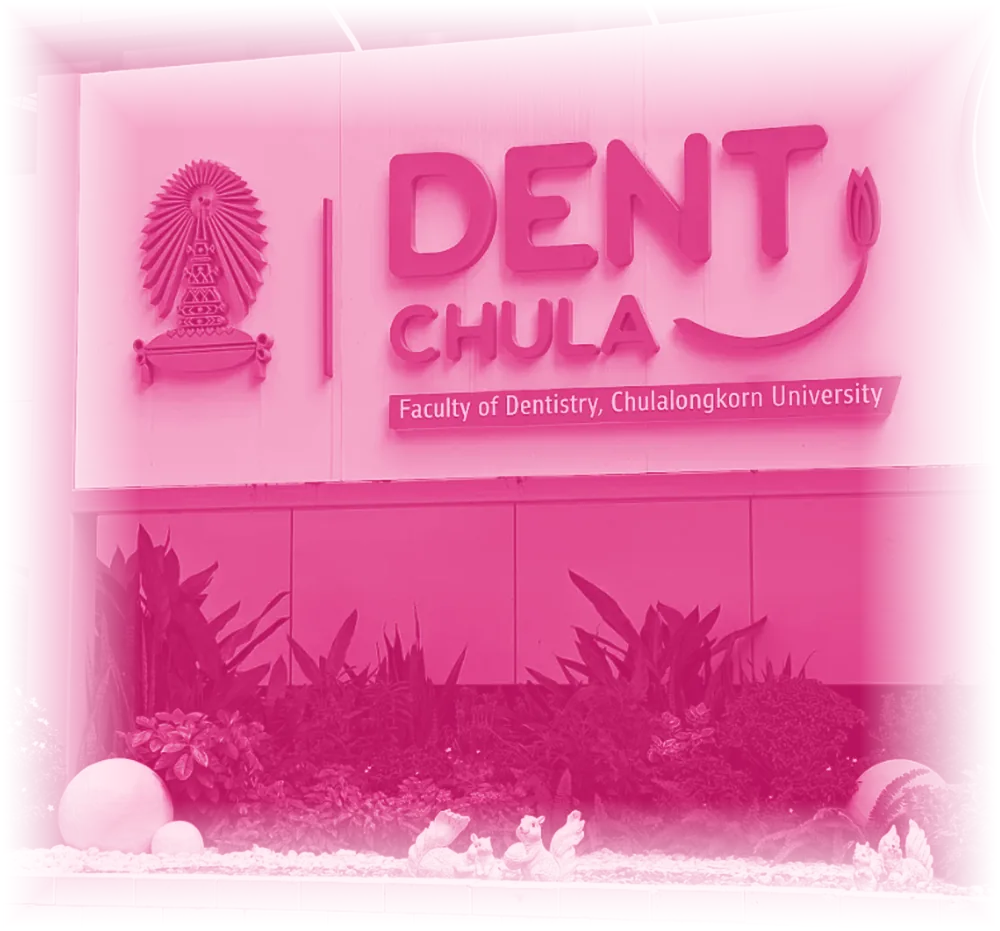
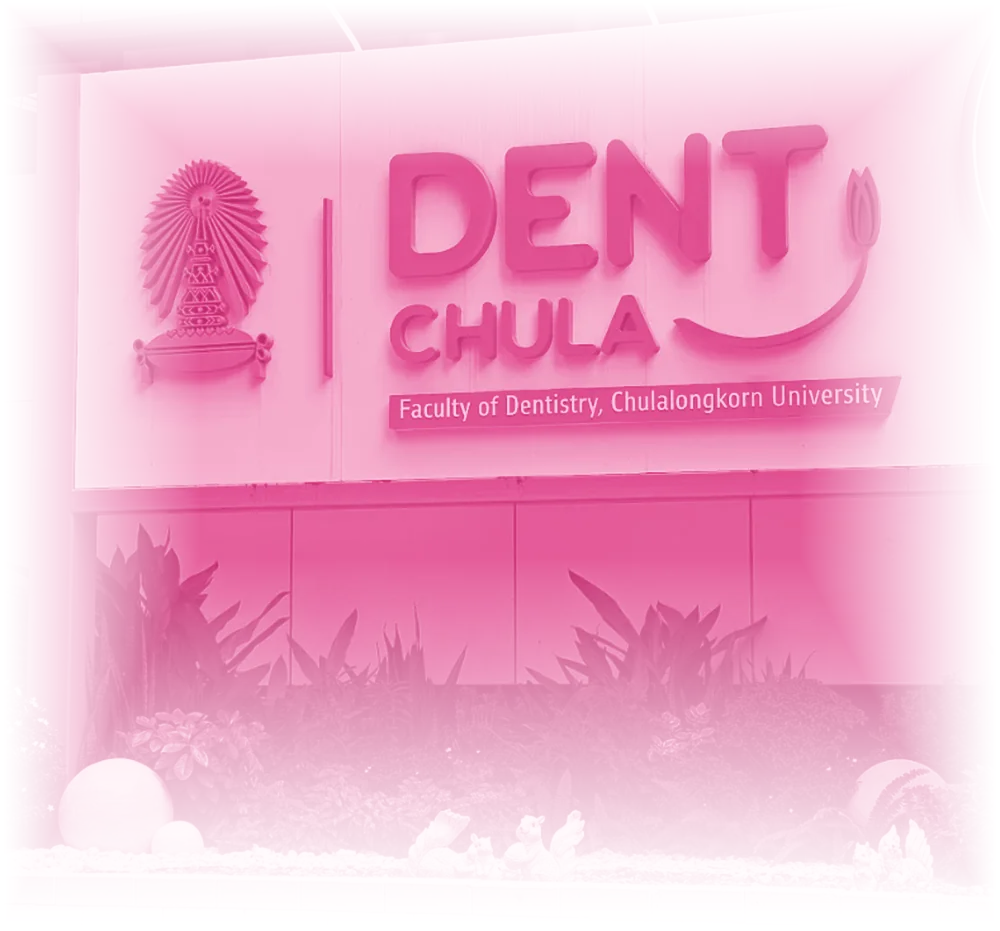
Presentation topics with live counts, deadlines 14 Dec, Naresuan not presenting, phone hero framing
Claude-Session: https://claude.ai/code/session_016LMS14PzaJgbGyYd3JYE8F

diff --git a/js/register.js b/js/register.js
@@ -20,9 +20,36 @@
   function updatePreview() {}
 
   // ---- case-presenter status (which universities already have a case, and the total) ----
+  var topics = [];
+  function countText(n) { return n === 0 ? "not chosen yet" : n === 1 ? "1 presenter" : n + " presenters"; }
+  function fallbackTopics() { return (SITE_CONFIG.TOPICS || []).map(function (n) { return { name: n, count: 0 }; }); }
+  function renderTopics(list) {
+    topics = list || [];
+    var sel = $("topic"), keep = sel.value;
+    sel.innerHTML = '<option value="">Select a topic…</option>';
+    var ul = $("topicList"); ul.innerHTML = "";
+    topics.forEach(function (t) {
+      var o = document.createElement("option"); o.value = t.name; o.textContent = t.name; sel.appendChild(o);
+      var li = document.createElement("li");
+      li.innerHTML = '<span class="case-title"></span><span class="badge"></span>';
+      li.querySelector(".case-title").textContent = t.name;
+      var b = li.querySelector(".badge"); b.textContent = countText(t.count || 0);
+      b.className = "badge " + ((t.count || 0) === 0 ? "free" : "taken");
+      li.addEventListener("click", function () { sel.value = t.name; sel.dispatchEvent(new Event("change")); });
+      ul.appendChild(li);
+    });
+    if (keep) sel.value = keep;
+    highlightTopic();
+  }
+  function highlightTopic() {
+    var v = $("topic").value;
+    $("topicList").querySelectorAll("li").forEach(function (li, i) { li.classList.toggle("selected", topics[i] && topics[i].name === v); });
+  }
+  $("topic").addEventListener("change", function () { highlightTopic(); setError("topic", ""); });
   function renderStatus(data) {
     var ul = $("caseList"); ul.innerHTML = "";
-    if (!data) { $("caseTotal").textContent = "unavailable at the moment"; return; }
+    if (!data) { $("caseTotal").textContent = "unavailable at the moment"; renderTopics(fallbackTopics()); return; }
+    renderTopics(data.topics && data.topics.length ? data.topics : fallbackTopics());
     var n = data.total || 0, all = data.universities || [];
     var presenting = all.filter(function (u) { return !u.not_presenting; }).length;
     $("caseTotal").textContent = n === 0 ? "none yet" : n + " of " + presenting + " universities";
@@ -61,6 +88,8 @@
     r.addEventListener("change", function () {
       var presenting = this.value !== "participant";
       $("titleWrap").hidden = !presenting;
+      $("titleWrap2").hidden = !presenting;
+      $("topic").required = presenting;
       updatePreview();
     });
   });
@@ -98,6 +127,11 @@
     var role = form.querySelector("input[name=role]:checked");
     $("roleError").style.display = role ? "none" : "block";
     if (!role) ok = false;
+    if (role && role.value !== "participant") {
+      var badT = !$("topic").value;
+      setError("topic", badT ? "Please choose the topic of your case." : "");
+      if (badT) ok = false;
+    }
     $("consentError").style.display = $("consent").checked ? "none" : "block";
     if (!$("consent").checked) ok = false;
     return ok;
@@ -133,6 +167,7 @@
       university_other: clean($("university_other").value),
       position: $("position").value,
       role: role,
+      topic: role === "participant" ? "" : $("topic").value,
       presentation_title: role === "participant" ? "" : $("presentation_title").value.trim(),
       dietary: clean($("dietary").value),
       consent: $("consent").checked,
@@ -157,6 +192,8 @@
         var ct = data.case_title || "";
         $("okCase").textContent = ct || "to be added on your presenter page";
         $("okCase").previousElementSibling.hidden = $("okCase").hidden = data.role === "participant";
+        $("okTopic").textContent = data.topic || "";
+        $("okTopic").previousElementSibling.hidden = $("okTopic").hidden = data.role === "participant";
         if (data.presenter_url) { $("presenterBox").hidden = false; $("presenterLink").href = data.presenter_url; $("presenterLink").textContent = data.presenter_url; }
         $("okEmail").textContent = payload.email;
         $("formWrap").hidden = true;

diff --git a/call.html b/call.html
@@ -9,7 +9,7 @@
 <link rel="preconnect" href="https://fonts.googleapis.com">
 <link href="https://fonts.googleapis.com/css2?family=Plus+Jakarta+Sans:wght@500;600;700;800&family=Manrope:wght@400;500;600;700&family=Cormorant+Garamond:ital,wght@0,600;1,500&display=swap" rel="stylesheet">
 <script>if(!matchMedia("(prefers-reduced-motion: reduce)").matches&&"IntersectionObserver" in window){document.documentElement.classList.add("js");setTimeout(function(){document.documentElement.classList.remove("js")},3000)}</script>
-<link rel="stylesheet" href="css/style.css?v=20260921b">
+<link rel="stylesheet" href="css/style.css?v=20260922c">
 </head>
 <body>
 <header class="site-header">
@@ -41,12 +41,26 @@
       <p>Presenters receive a Certificate of Presentation naming the case title, in addition to the Certificate of Participation. Both are emailed after the symposium.</p></div>
   </div>
 
+  <h2 style="margin-top:2.5rem">Presentation topics</h2>
+  <p>Each case is registered under one of the following topics. The registration form shows how many presenters have already chosen each topic.</p>
+  <ul class="topics">
+    <li>Skeletal Class II (non-surgical)</li>
+    <li>Skeletal Class III (non-surgical)</li>
+    <li>Orthognathic surgery</li>
+    <li>Clear aligner treatment</li>
+    <li>Growth modification / early treatment</li>
+    <li>Interdisciplinary treatment</li>
+    <li>Syndromic cases</li>
+    <li>TMD / TMJ-related orthodontic treatment</li>
+    <li>Asymmetry (non-surgical)</li>
+  </ul>
+
   <h2 style="margin-top:2.5rem">How to register a case</h2>
   <ol>
-    <li>The presenting resident <a href="register.html">registers</a> and chooses <strong>Case presenter</strong>. The form shows which universities have already registered a case and how many cases there are so far. The case title can be given at registration or added later.</li>
+    <li>The presenting resident <a href="register.html">registers</a>, chooses <strong>Case presenter</strong> and picks the topic of the case. The form shows which universities have already registered a case and how many presenters have chosen each topic. The case title can be given at registration or added later.</li>
     <li>Only one case presenter per university can be registered; a second registration from the same university is refused automatically.</li>
     <li>The case title is printed on the certificate and in the programme; presenters can edit it on their private presenter page until the deadline.</li>
-    <li>Deadline for case titles: <strong><span data-config="CASE_TITLE_DEADLINE"></span></strong>. Supervisors and co-presenters register separately as participants.</li>
+    <li>Deadline for registration, case titles and slide upload: <strong><span data-config="CASE_TITLE_DEADLINE"></span></strong>. Supervisors and co-presenters register separately as participants.</li>
   </ol>
   <p>No abstract submission is required. Patient information must be anonymised in all slides.</p>
   <p><a class="btn navy" href="register.html">Register as case presenter</a></p>
@@ -64,8 +78,8 @@
     </div>
   </div>
 </footer>
-<script src="js/config.js?v=20260921b"></script>
-<script src="js/main.js?v=20260921b"></script>
+<script src="js/config.js?v=20260922c"></script>
+<script src="js/main.js?v=20260922c"></script>
 
 </body>
 </html>

diff --git a/register.html b/register.html
@@ -9,7 +9,7 @@
 <link rel="preconnect" href="https://fonts.googleapis.com">
 <link href="https://fonts.googleapis.com/css2?family=Plus+Jakarta+Sans:wght@500;600;700;800&family=Manrope:wght@400;500;600;700&family=Cormorant+Garamond:ital,wght@0,600;1,500&display=swap" rel="stylesheet">
 <script>if(!matchMedia("(prefers-reduced-motion: reduce)").matches&&"IntersectionObserver" in window){document.documentElement.classList.add("js");setTimeout(function(){document.documentElement.classList.remove("js")},3000)}</script>
-<link rel="stylesheet" href="css/style.css?v=20260921b">
+<link rel="stylesheet" href="css/style.css?v=20260922c">
 </head>
 <body>
 <header class="site-header">
@@ -45,6 +45,7 @@
     <dl>
       <dt>Registration ID</dt><dd id="okId"></dd>
       <dt>Role</dt><dd id="okRole"></dd>
+      <dt>Topic</dt><dd id="okTopic"></dd>
       <dt>Case title</dt><dd id="okCase"></dd>
       <dt>Name on certificate</dt><dd id="okName"></dd>
       <dt>Affiliation on certificate</dt><dd id="okUni"></dd>
@@ -148,6 +149,13 @@
         </div>
         <span id="roleError" class="field-error" style="display:none">Please choose how you will take part.</span>
         <div class="field" id="titleWrap" hidden style="margin-top:1rem">
+          <label for="topic">Topic of your case <span class="req">*</span></label>
+          <select id="topic" name="topic"><option value="">Select a topic…</option></select>
+          <span class="hint">The badge shows how many presenters have already chosen each topic. You may still choose a popular topic; a less popular one makes for a more varied afternoon.</span>
+          <ul id="topicList" class="case-list" aria-live="polite"></ul>
+          <span class="field-error"></span>
+        </div>
+        <div class="field" hidden id="titleWrap2" style="margin-top:1rem">
           <label for="presentation_title">Case title <span class="hint">(optional now, can be added or changed later on your presenter page)</span></label>
           <input type="text" id="presentation_title" name="presentation_title" maxlength="300" placeholder="e.g. Skeletal Class III camouflage in an adult patient" autocomplete="off">
           <span class="field-error"></span>
@@ -188,8 +196,8 @@
     </div>
   </div>
 </footer>
-<script src="js/config.js?v=20260921b"></script>
-<script src="js/main.js?v=20260921b"></script>
-<script src="js/register.js?v=20260921b"></script>
+<script src="js/config.js?v=20260922c"></script>
+<script src="js/main.js?v=20260922c"></script>
+<script src="js/register.js?v=20260922c"></script>
 </body>
 </html>

diff --git a/css/style.css b/css/style.css
@@ -234,6 +234,8 @@ input.invalid, select.invalid { border-color: var(--error); }
 .case-list li { display: flex; justify-content: space-between; align-items: center; gap: .8rem; padding: .6rem .8rem; border: 1px solid var(--line); border-radius: 10px; background: #fff; cursor: pointer; font-size: .92rem; transition: border-color .2s, background .2s; }
 .case-list li:hover { border-color: var(--pink); }
 .case-list.status li { cursor: default; }
+ul.topics { list-style: none; padding: 0; margin: .8rem 0 0; display: flex; flex-wrap: wrap; gap: .5rem; }
+ul.topics li { background: #fff; color: var(--navy); border-radius: 999px; padding: .45rem .9rem; font-weight: 600; font-size: .92rem; box-shadow: 0 6px 16px rgba(0,0,0,.18); }
 .case-list.status li.na .case-title { color: var(--muted); }
 .case-list.status li:hover { border-color: var(--line); }
 .case-list li.selected { border-color: var(--navy); background: var(--blush); }
@@ -347,9 +349,9 @@ html:not([data-theme]) a { color: var(--pink-soft); }
 html:not([data-theme]) :is(.card, form.reg, table, .success) { color: var(--ink); }
 html:not([data-theme]) :is(.card, form.reg, table, .success) a { color: var(--pink); }
 html:not([data-theme]) .site-header { border-bottom: 0; }
-html:not([data-theme]) .hero { background: linear-gradient(120deg, rgba(201,23,94,.78) 0%, rgba(220,47,122,.62) 55%, rgba(230,84,154,.55) 100%), url(../assets/hero-sign.webp) calc(50% + 450px) 100% / auto 88% no-repeat #d8286f; padding-bottom: clamp(5rem, 12vw, 8.5rem); }
+html:not([data-theme]) .hero { background: linear-gradient(120deg, rgba(201,23,94,.78) 0%, rgba(220,47,122,.62) 55%, rgba(230,84,154,.55) 100%), url(../assets/hero-sign.webp?v=2) calc(50% + 450px) 100% / auto 88% no-repeat #d8286f; padding-bottom: clamp(5rem, 12vw, 8.5rem); }
 @media (min-width: 901px) { html:not([data-theme]) .hero-art { display: none; } }   /* the sign panel takes the arch's place on wide screens */
-@media (max-width: 900px) { html:not([data-theme]) .hero { background-size: auto 44%; background-position: center 100%; } }
+@media (max-width: 900px) { html:not([data-theme]) .hero { background-size: auto 46%; background-position: right -12% top 6%; } html:not([data-theme]) .hero-art { display: none; } }   /* phones/tablets: sign panel top-right behind the title, arch off to keep it calm */
 html:not([data-theme]) .hero-art { opacity: .1; }
 .hero { border-bottom: 2px solid var(--navy); }   /* hides the sub-pixel seam under the wave */
 html[data-theme="light"] .hero { border-bottom-color: var(--bg); }

diff --git a/index.html b/index.html
@@ -9,7 +9,7 @@
 <link rel="preconnect" href="https://fonts.googleapis.com">
 <link href="https://fonts.googleapis.com/css2?family=Plus+Jakarta+Sans:wght@500;600;700;800&family=Manrope:wght@400;500;600;700&family=Cormorant+Garamond:ital,wght@0,600;1,500&display=swap" rel="stylesheet">
 <script>if(!matchMedia("(prefers-reduced-motion: reduce)").matches&&"IntersectionObserver" in window){document.documentElement.classList.add("js");setTimeout(function(){document.documentElement.classList.remove("js")},3000)}</script>
-<link rel="stylesheet" href="css/style.css?v=20260921b">
+<link rel="stylesheet" href="css/style.css?v=20260922c">
 </head>
 <body>
 <header class="site-header">
@@ -166,8 +166,8 @@
     <div class="table-wrap">
     <table class="dates">
       <tr><th>Registration opens</th><td>1 October 2026</td></tr>
-      <tr><th>Deadline for case titles (presenters)</th><td><span data-config="CASE_TITLE_DEADLINE"></span></td></tr>
       <tr><th>Registration deadline</th><td><span data-config="REGISTRATION_DEADLINE"></span></td></tr>
+      <tr><th>Deadline for case titles and slide upload (presenters)</th><td><span data-config="CASE_TITLE_DEADLINE"></span></td></tr>
       <tr><th>Symposium day</th><td><span data-config="EVENT_DATE"></span></td></tr>
     </table>
     </div>
@@ -188,8 +188,8 @@
     </div>
   </div>
 </footer>
-<script src="js/config.js?v=20260921b"></script>
-<script src="js/main.js?v=20260921b"></script>
+<script src="js/config.js?v=20260922c"></script>
+<script src="js/main.js?v=20260922c"></script>
 
 </body>
 </html>

diff --git a/presenter.html b/presenter.html
@@ -9,7 +9,7 @@
 <link rel="preconnect" href="https://fonts.googleapis.com">
 <link href="https://fonts.googleapis.com/css2?family=Plus+Jakarta+Sans:wght@500;600;700;800&family=Manrope:wght@400;500;600;700&family=Cormorant+Garamond:ital,wght@0,600;1,500&display=swap" rel="stylesheet">
 <script>if(!matchMedia("(prefers-reduced-motion: reduce)").matches&&"IntersectionObserver" in window){document.documentElement.classList.add("js");setTimeout(function(){document.documentElement.classList.remove("js")},3000)}</script>
-<link rel="stylesheet" href="css/style.css?v=20260921b">
+<link rel="stylesheet" href="css/style.css?v=20260922c">
 </head>
 <body>
 <header class="site-header">
@@ -54,6 +54,7 @@
           <dt>Presenter</dt><dd id="pName"></dd>
           <dt>University</dt><dd id="pUni"></dd>
           <dt>Registration ID</dt><dd id="pId"></dd>
+          <dt>Topic</dt><dd id="pTopic"></dd>
           <dt>Registered title</dt><dd id="pCase"></dd>
         </dl>
         <div class="field">
@@ -119,8 +120,8 @@
     </div>
   </div>
 </footer>
-<script src="js/config.js?v=20260921b"></script>
-<script src="js/main.js?v=20260921b"></script>
-<script src="js/presenter.js?v=20260921b"></script>
+<script src="js/config.js?v=20260922c"></script>
+<script src="js/main.js?v=20260922c"></script>
+<script src="js/presenter.js?v=20260922c"></script>
 </body>
 </html>

diff --git a/js/config.js b/js/config.js
@@ -5,9 +5,12 @@ const SITE_CONFIG = {
   // Paste the Apps Script Web App URL here (ends with /exec). See README.md.
   SCRIPT_URL: "https://script.google.com/macros/s/AKfycbxG7XtJMnSAxWiX2EfP3FXgvF10LuyyvUDhdgw_oYJ9qijz0nhQqTu1mRZNUWD6pGNg/exec",
   REGISTRATION_OPEN: true,
-  REGISTRATION_DEADLINE: "7 December 2026",
+  REGISTRATION_DEADLINE: "14 December 2026",
   EVENT_DATE: "21 December 2026",
   EVENT_DATE_ISO: "2026-12-21T08:30:00+07:00",   // used by the countdown
-  CASE_TITLE_DEADLINE: "20 November 2026",
+  CASE_TITLE_DEADLINE: "14 December 2026",
+  // Presentation topics (fallback if the backend cannot be reached; the live list with counts comes from the backend).
+  TOPICS: ["Skeletal Class II (non-surgical)", "Skeletal Class III (non-surgical)", "Orthognathic surgery", "Clear aligner treatment",
+           "Growth modification / early treatment", "Interdisciplinary treatment", "Syndromic cases", "TMD / TMJ-related orthodontic treatment", "Asymmetry (non-surgical)"],
   CONTACT_EMAIL: "",   // departmental address, e.g. the OrthoCU office. Leave "" to hide contact lines.
 };

diff --git a/venue.html b/venue.html
@@ -9,7 +9,7 @@
 <link rel="preconnect" href="https://fonts.googleapis.com">
 <link href="https://fonts.googleapis.com/css2?family=Plus+Jakarta+Sans:wght@500;600;700;800&family=Manrope:wght@400;500;600;700&family=Cormorant+Garamond:ital,wght@0,600;1,500&display=swap" rel="stylesheet">
 <script>if(!matchMedia("(prefers-reduced-motion: reduce)").matches&&"IntersectionObserver" in window){document.documentElement.classList.add("js");setTimeout(function(){document.documentElement.classList.remove("js")},3000)}</script>
-<link rel="stylesheet" href="css/style.css?v=20260921b">
+<link rel="stylesheet" href="css/style.css?v=20260922c">
 </head>
 <body>
 <header class="site-header">
@@ -101,8 +101,8 @@
     </div>
   </div>
 </footer>
-<script src="js/config.js?v=20260921b"></script>
-<script src="js/main.js?v=20260921b"></script>
+<script src="js/config.js?v=20260922c"></script>
+<script src="js/main.js?v=20260922c"></script>
 
 </body>
 </html>

diff --git a/contact.html b/contact.html
@@ -9,7 +9,7 @@
 <link rel="preconnect" href="https://fonts.googleapis.com">
 <link href="https://fonts.googleapis.com/css2?family=Plus+Jakarta+Sans:wght@500;600;700;800&family=Manrope:wght@400;500;600;700&family=Cormorant+Garamond:ital,wght@0,600;1,500&display=swap" rel="stylesheet">
 <script>if(!matchMedia("(prefers-reduced-motion: reduce)").matches&&"IntersectionObserver" in window){document.documentElement.classList.add("js");setTimeout(function(){document.documentElement.classList.remove("js")},3000)}</script>
-<link rel="stylesheet" href="css/style.css?v=20260921b">
+<link rel="stylesheet" href="css/style.css?v=20260922c">
 </head>
 <body>
 <header class="site-header">
@@ -57,8 +57,8 @@
     </div>
   </div>
 </footer>
-<script src="js/config.js?v=20260921b"></script>
-<script src="js/main.js?v=20260921b"></script>
+<script src="js/config.js?v=20260922c"></script>
+<script src="js/main.js?v=20260922c"></script>
 
 </body>
 </html>

diff --git a/programme.html b/programme.html
@@ -9,7 +9,7 @@
 <link rel="preconnect" href="https://fonts.googleapis.com">
 <link href="https://fonts.googleapis.com/css2?family=Plus+Jakarta+Sans:wght@500;600;700;800&family=Manrope:wght@400;500;600;700&family=Cormorant+Garamond:ital,wght@0,600;1,500&display=swap" rel="stylesheet">
 <script>if(!matchMedia("(prefers-reduced-motion: reduce)").matches&&"IntersectionObserver" in window){document.documentElement.classList.add("js");setTimeout(function(){document.documentElement.classList.remove("js")},3000)}</script>
-<link rel="stylesheet" href="css/style.css?v=20260921b">
+<link rel="stylesheet" href="css/style.css?v=20260922c">
 </head>
 <body>
 <header class="site-header">
@@ -61,8 +61,8 @@
     </div>
   </div>
 </footer>
-<script src="js/config.js?v=20260921b"></script>
-<script src="js/main.js?v=20260921b"></script>
+<script src="js/config.js?v=20260922c"></script>
+<script src="js/main.js?v=20260922c"></script>
 
 </body>
 </html>

diff --git a/speakers.html b/speakers.html
@@ -9,7 +9,7 @@
 <link rel="preconnect" href="https://fonts.googleapis.com">
 <link href="https://fonts.googleapis.com/css2?family=Plus+Jakarta+Sans:wght@500;600;700;800&family=Manrope:wght@400;500;600;700&family=Cormorant+Garamond:ital,wght@0,600;1,500&display=swap" rel="stylesheet">
 <script>if(!matchMedia("(prefers-reduced-motion: reduce)").matches&&"IntersectionObserver" in window){document.documentElement.classList.add("js");setTimeout(function(){document.documentElement.classList.remove("js")},3000)}</script>
-<link rel="stylesheet" href="css/style.css?v=20260921b">
+<link rel="stylesheet" href="css/style.css?v=20260922c">
 </head>
 <body>
 <header class="site-header">
@@ -72,8 +72,8 @@
     </div>
   </div>
 </footer>
-<script src="js/config.js?v=20260921b"></script>
-<script src="js/main.js?v=20260921b"></script>
+<script src="js/config.js?v=20260922c"></script>
+<script src="js/main.js?v=20260922c"></script>
 
 </body>
 </html>

diff --git a/js/presenter.js b/js/presenter.js
@@ -23,7 +23,7 @@
   function render(p) {
     profile = p;
     $("loading").hidden = true; $("profile").hidden = false;
-    $("pName").textContent = p.name; $("pUni").textContent = p.university; $("pId").textContent = p.id; $("pCase").textContent = p.presentation_title || "not yet given";
+    $("pName").textContent = p.name; $("pUni").textContent = p.university; $("pId").textContent = p.id; $("pCase").textContent = p.presentation_title || "not yet given"; $("pTopic").textContent = p.topic || "–";
     $("specific_title").value = p.specific_title || p.presentation_title || ""; $("summary").value = p.summary || ""; $("slides_link").value = p.slides_link || "";
     $("maxMb").textContent = p.max_upload_mb || 20; $("deadline").textContent = p.deadline || "";
     $("updatedAt").textContent = p.updated_at ? "Last saved: " + new Date(p.updated_at).toLocaleString() : "";
